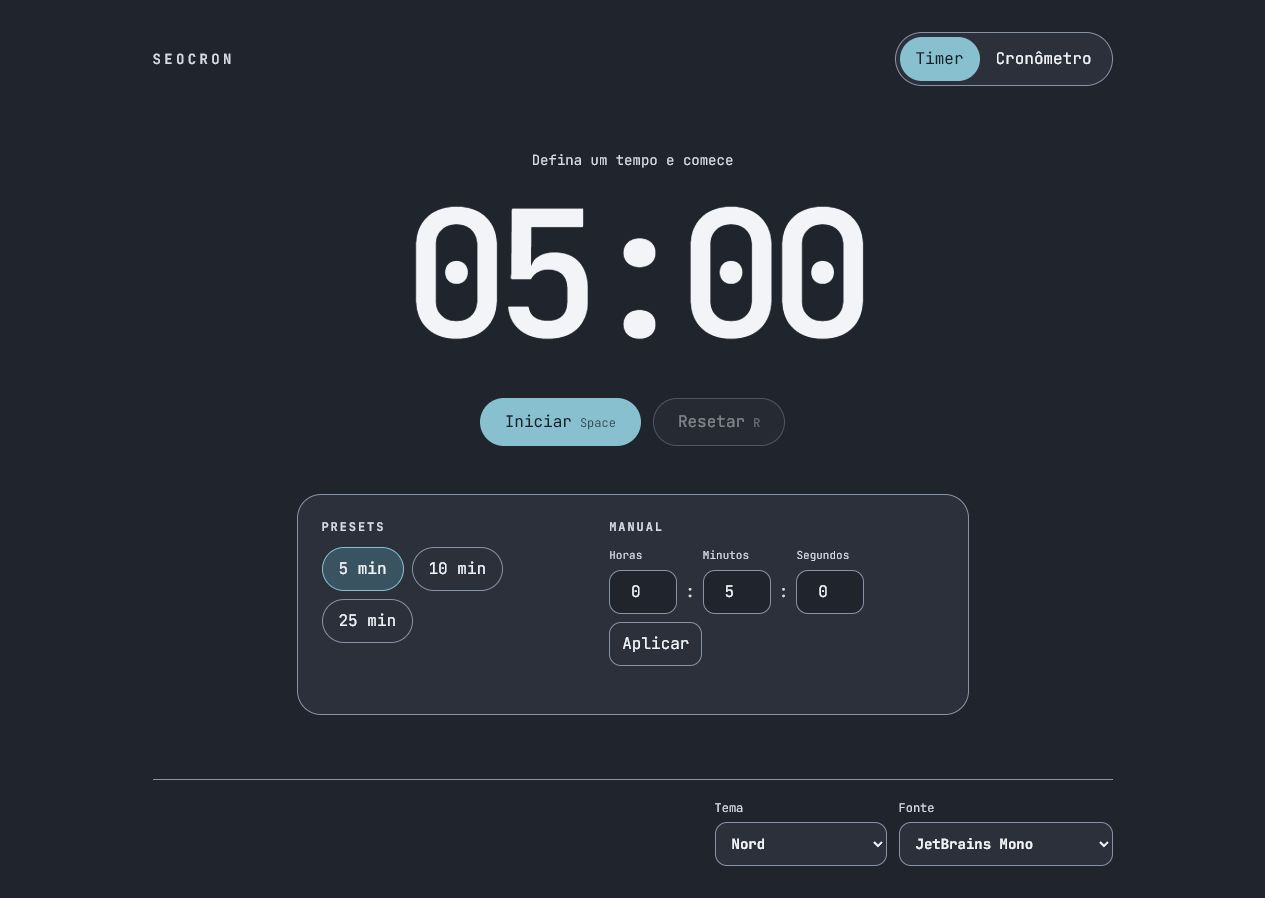
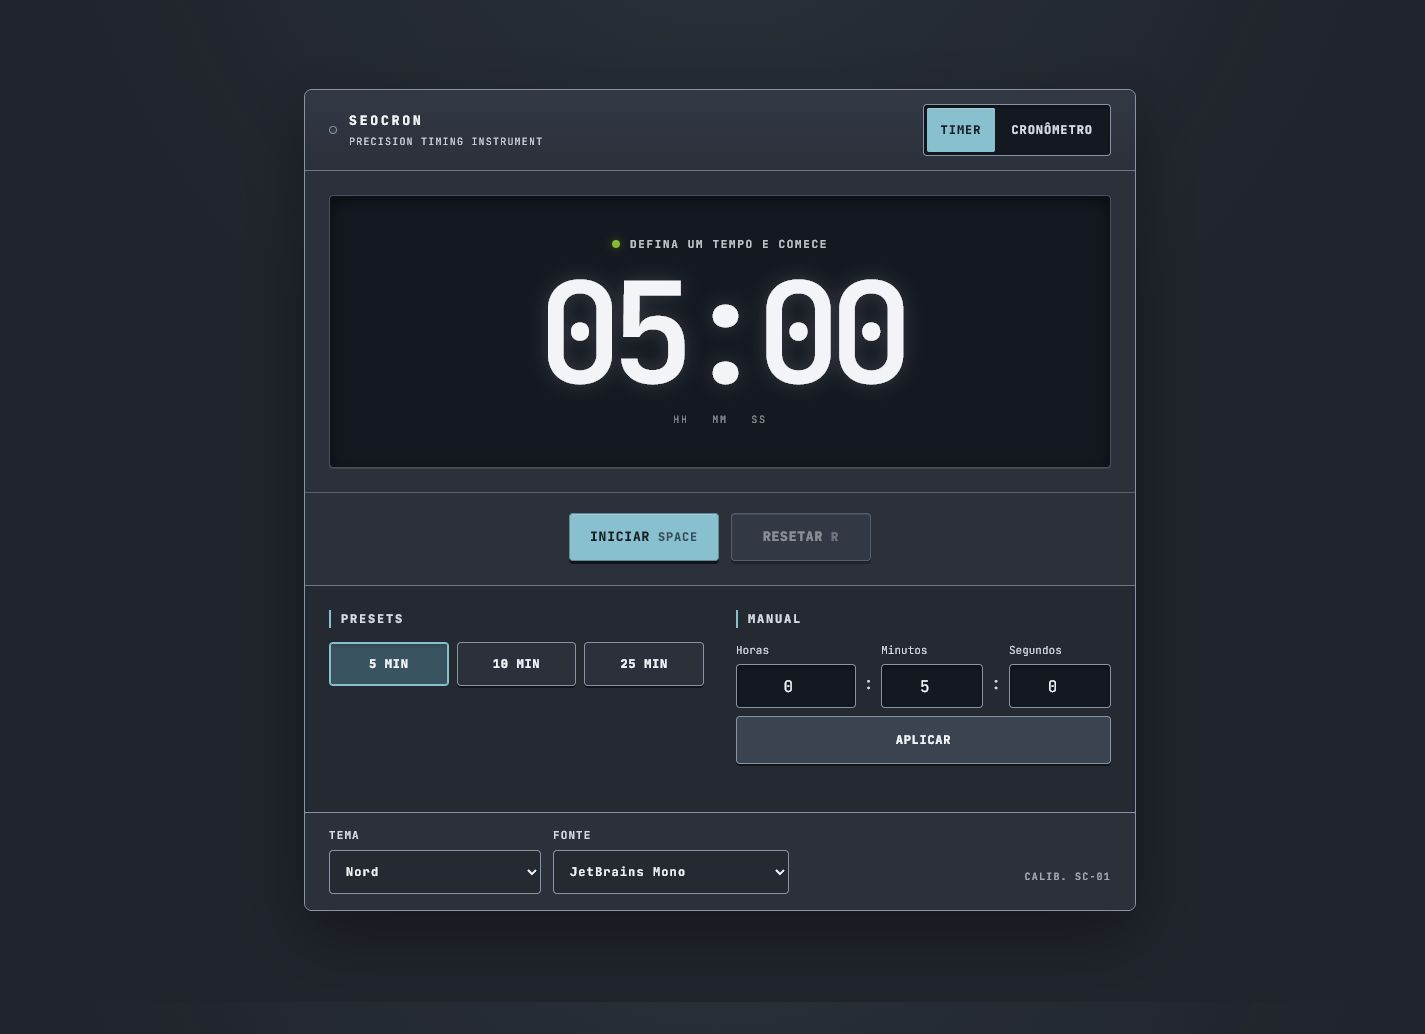
docs(readme): refresh bench instrument screenshots

diff --git a/README.md b/README.md
@@ -14,15 +14,15 @@ Timer e cronômetro em uma SPA estática. O projeto não possui backend, trackin
 - Cronômetro com registro de voltas e tempos parciais.
 - Contagem derivada de timestamps reais, sem acumular ticks de intervalo.
 - Wake Lock enquanto a contagem está ativa, com fallback para navegadores incompatíveis.
-- Sete temas curados e quatro fontes locais, incluindo opções CRT e LCD clássicas.
+- Dez temas curados e quatro fontes locais, incluindo opções CRT e LCD clássicas.
 - Atalhos desktop: `Space` inicia ou pausa; `R` reseta o modo ativo.
 - Layout responsivo, título da aba em tempo real e estado restrito à memória da aba.
 
 ## Outros modos
 
 <p align="center">
-  <img src="./docs/screenshots/stopwatch-desktop.png" alt="Cronômetro com voltas no tema Dracula e fonte DSEG7" width="64%" />
-  <img src="./docs/screenshots/timer-mobile.png" alt="Timer mobile no tema Signal Red e fonte VT323" width="30%" />
+  <img src="./docs/screenshots/stopwatch-desktop.png" alt="Cronômetro com volta no tema Marine Instrument e fonte DSEG7" width="64%" />
+  <img src="./docs/screenshots/timer-mobile.png" alt="Timer mobile no tema Pit Lane e fonte VT323" width="30%" />
 </p>
 
 ## Requisitos
